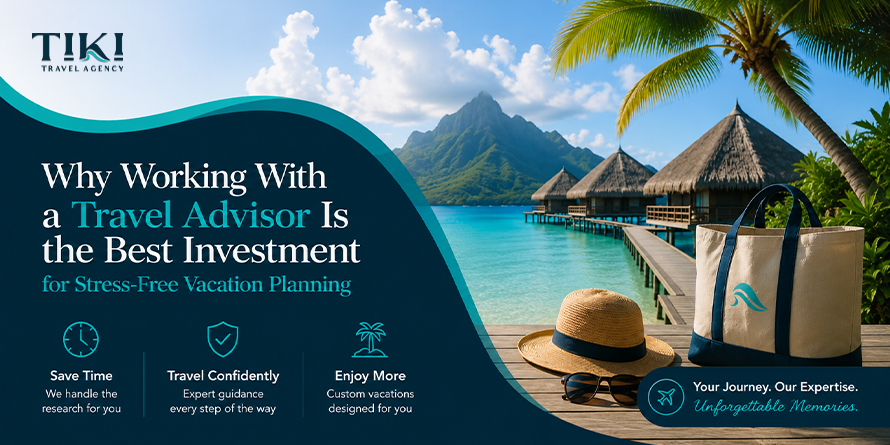
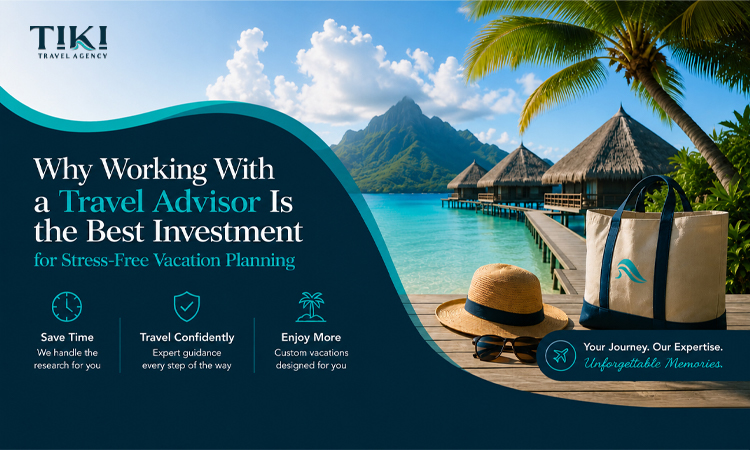
June 2nd week static-blog added

diff --git a/components/static-blogs/blogs/why-working-with-a-travel-advisor-Is-the-best-investment.jsx b/components/static-blogs/blogs/why-working-with-a-travel-advisor-Is-the-best-investment.jsx
@@ -258,19 +258,18 @@ function WhyWorkingWithATravelAdvisor({
           </p>
         </div>
 
-        <figure className="mt-5 overflow-hidden border border-slate-200 bg-slate-100 sm:mt-6">
-          <div className="relative aspect-[2/1] w-full">
-            <Image
-              src={featuredImage.image.url}
-              alt={featuredImage.altText}
-              title={featuredImage.title}
-              fill
-              priority
-              aria-describedby="travel-advisor-image-caption travel-advisor-image-description"
-              sizes="(max-width: 640px) 100vw, (max-width: 1024px) 92vw, 800px"
-              className="object-cover object-center"
-            />
-          </div>
+        <figure className="mt-5 overflow-visible border border-slate-200 bg-slate-100 sm:mt-6">
+          <Image
+            src={featuredImage.image.url}
+            alt={featuredImage.altText}
+            title={featuredImage.title}
+            layout="responsive"
+            width={1200}
+            height={600}
+            aria-describedby="travel-advisor-image-caption travel-advisor-image-description"
+            sizes="(max-width: 640px) 100vw, (max-width: 1024px) 92vw, 800px"
+            className="object-contain object-center"
+          />
           <figcaption
             id="travel-advisor-image-caption"
             className="border-t border-slate-200 bg-white px-3 py-2 text-xs italic text-secondary/70 sm:px-4 sm:py-3 sm:text-sm"